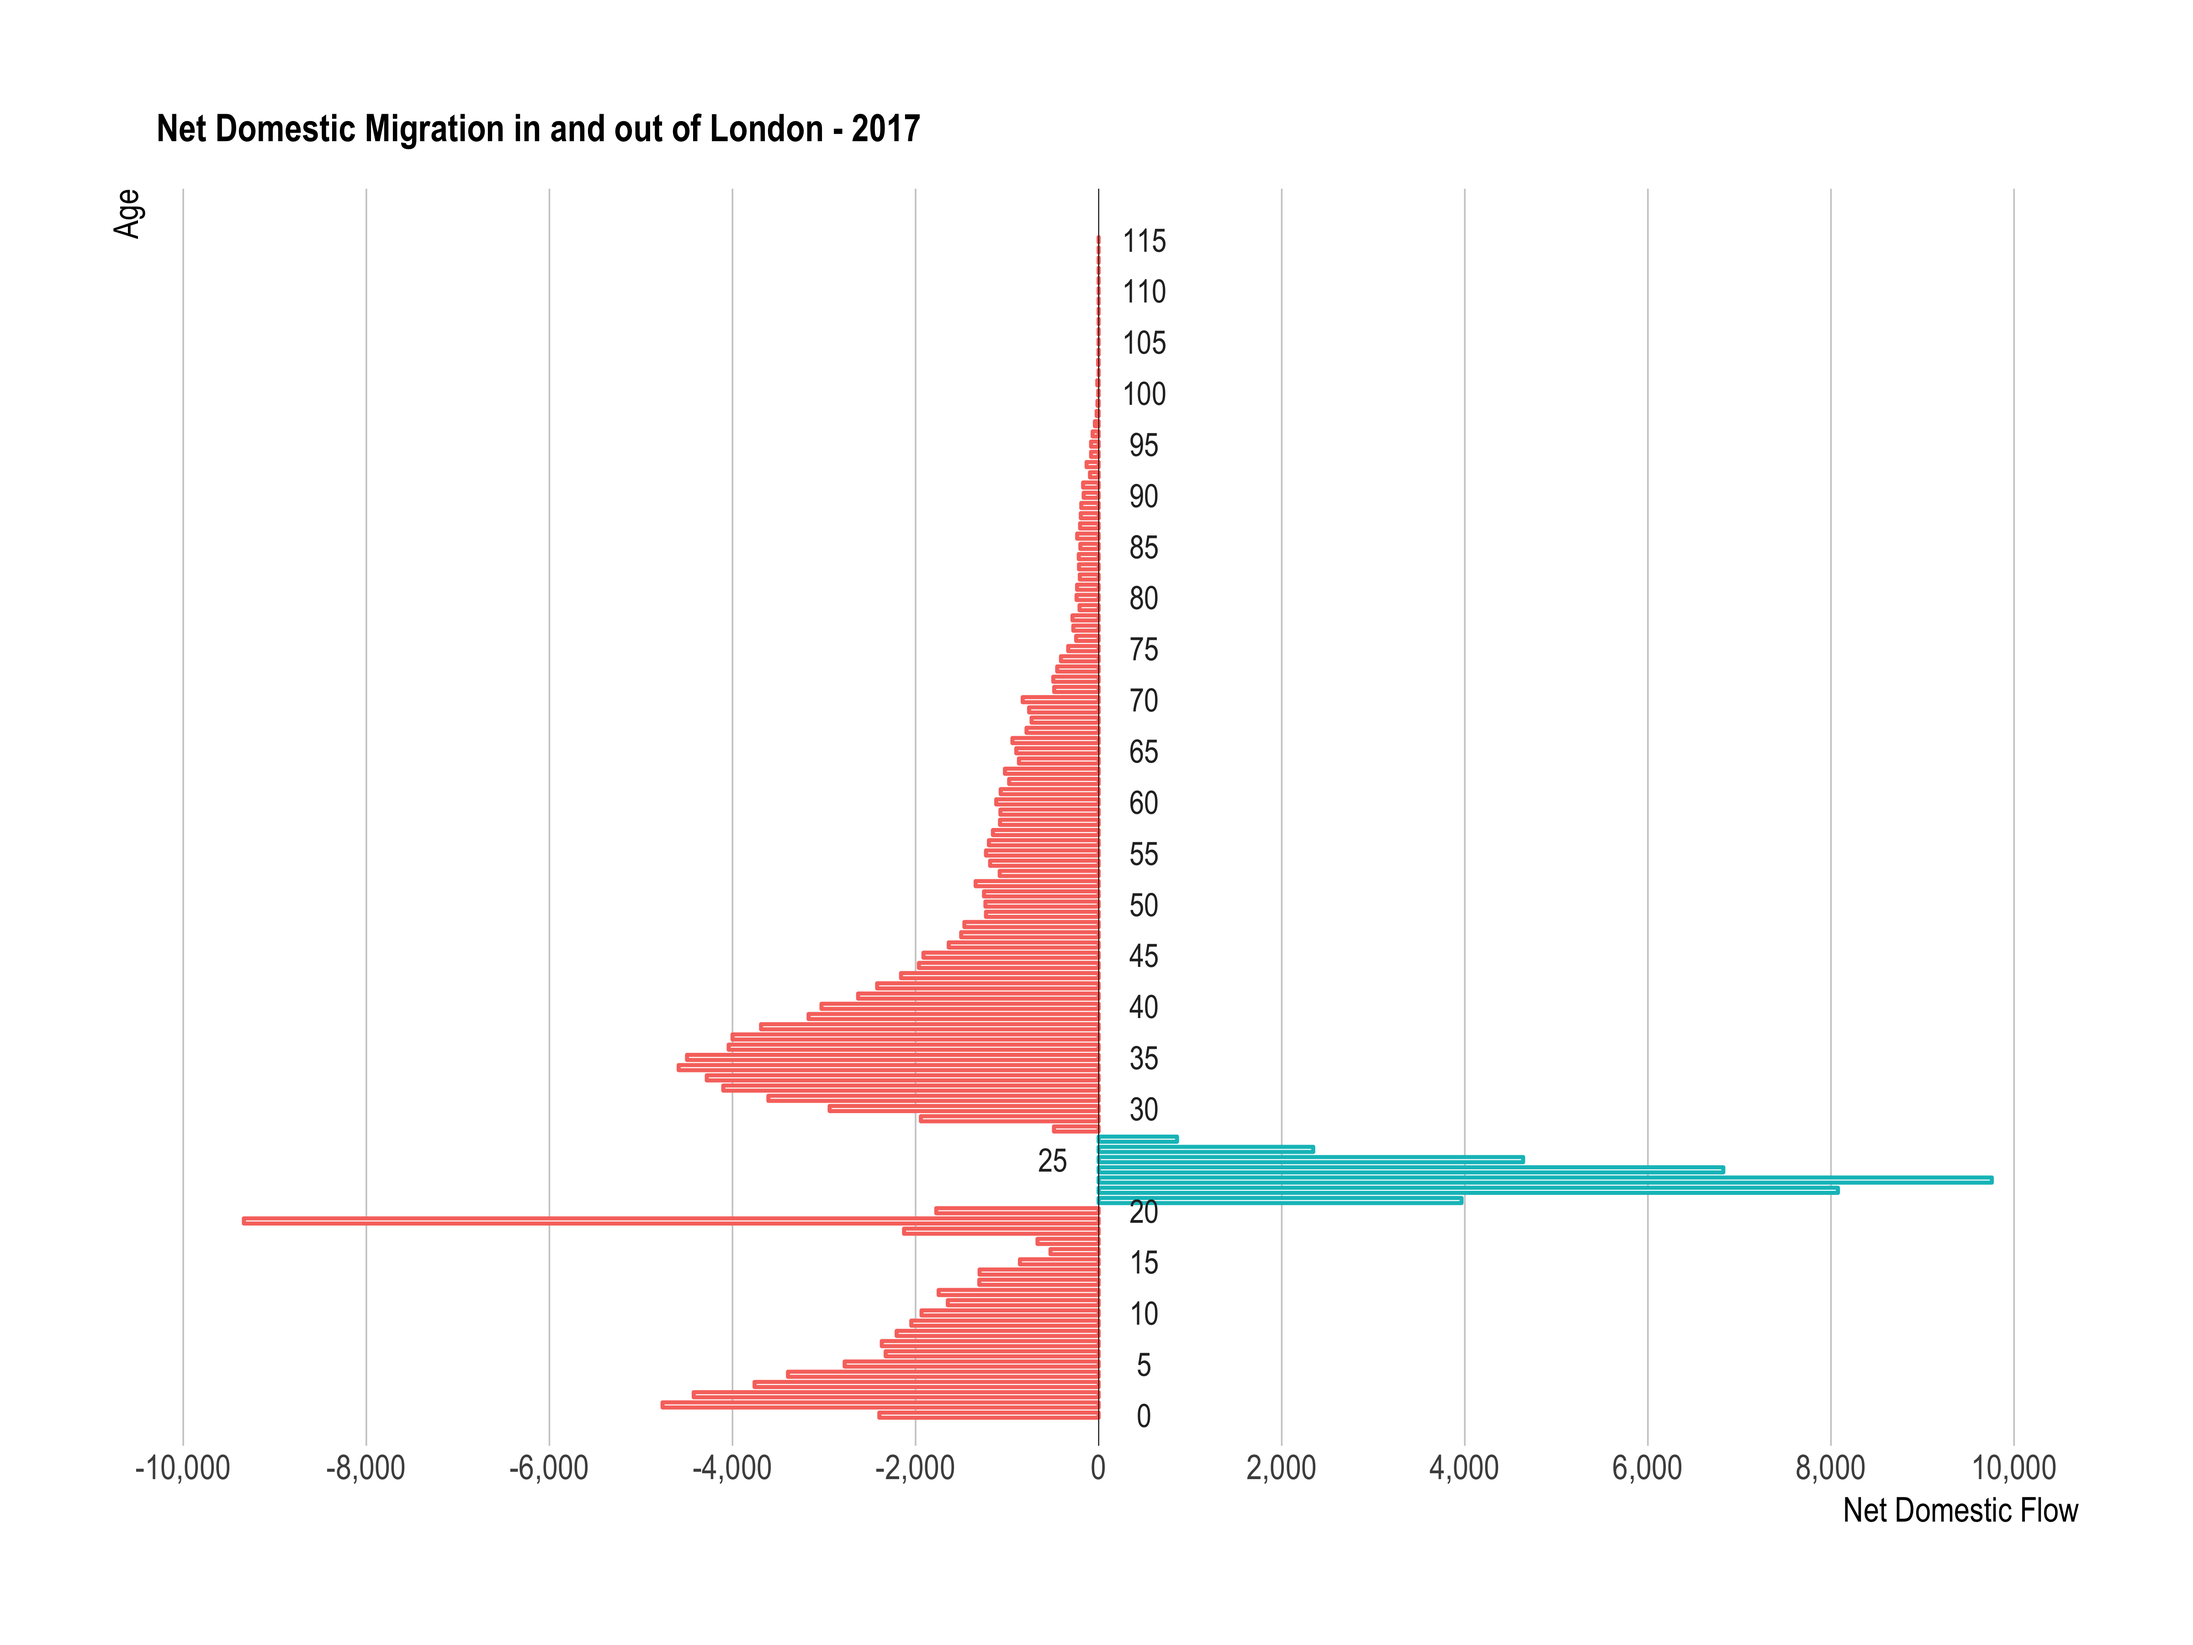
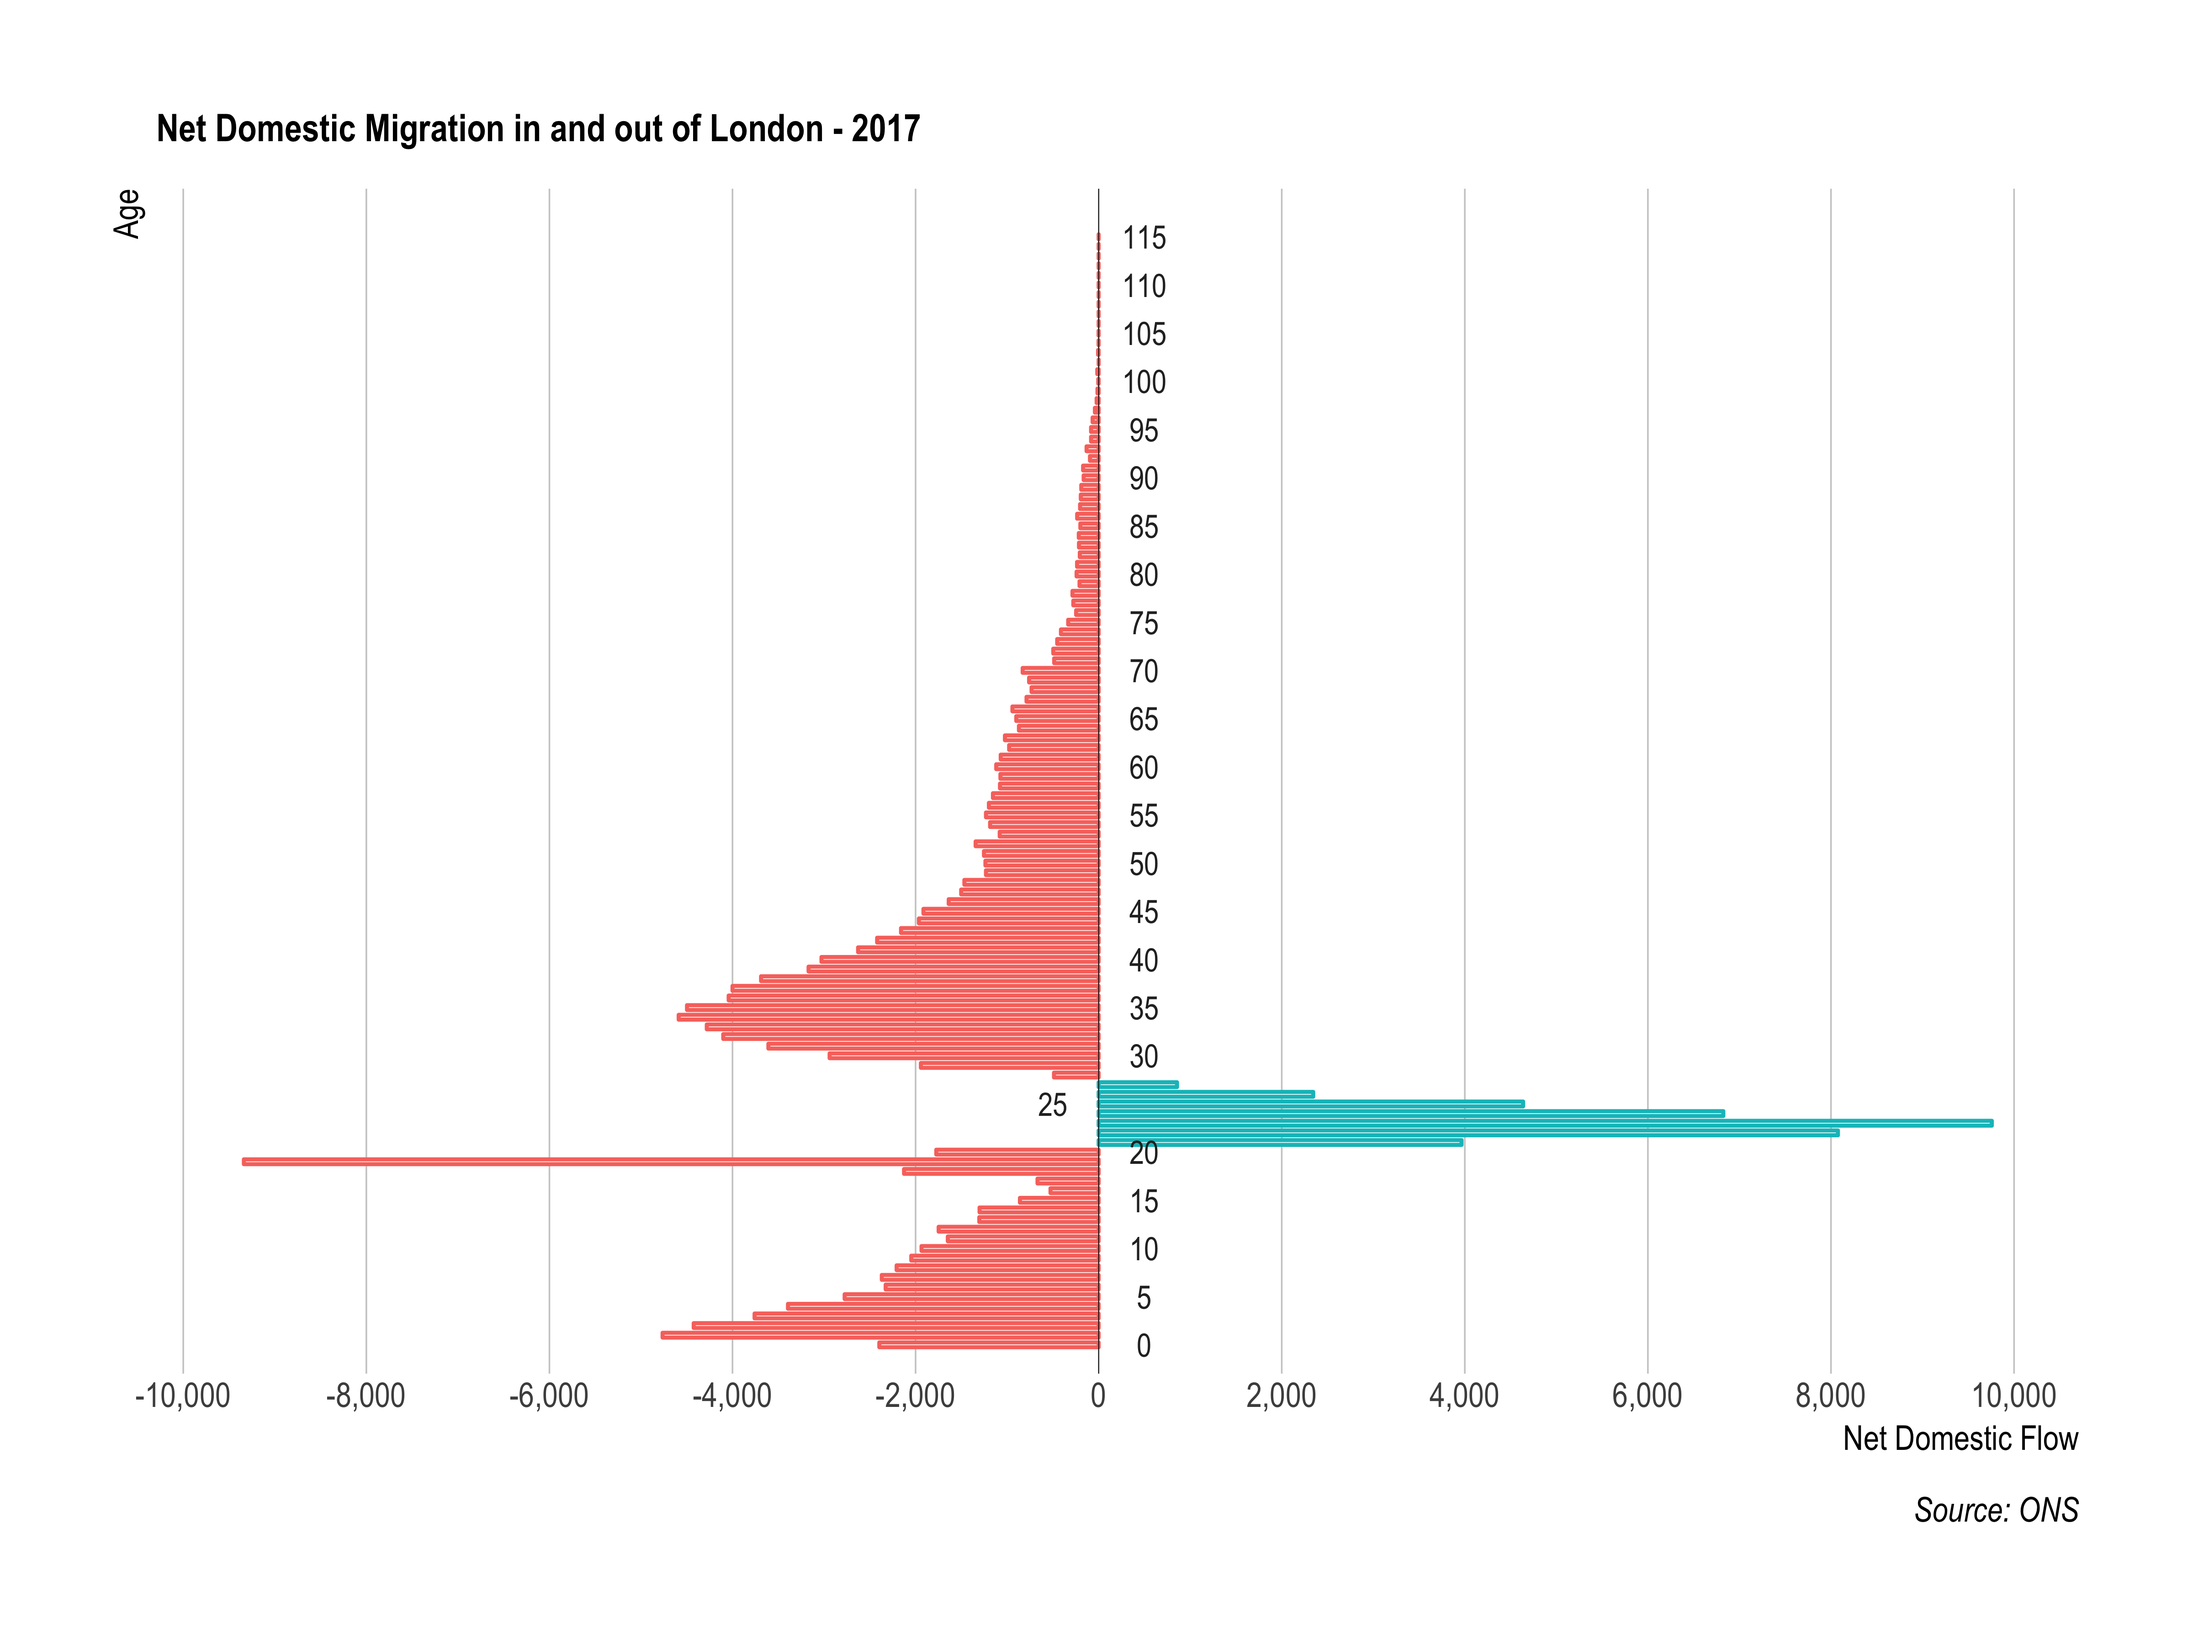
added source

diff --git a/content/post/2018-07-27-london-domestic-migration.html b/content/post/2018-07-27-london-domestic-migration.html
@@ -141,7 +141,8 @@ net_lim &lt;-<span class="st"> </span><span class="fl">1e3</span> <span class="o
                      <span class="dt">minor_breaks =</span> <span class="ot">NULL</span>,
                      <span class="dt">labels =</span> scales<span class="op">::</span>comma) <span class="op">+</span>
 <span class="st">  </span><span class="kw">labs</span>(<span class="dt">y =</span> <span class="st">&quot;Net Domestic Flow&quot;</span>,
-       <span class="dt">title=</span> <span class="st">&quot;Net Domestic Migration in and out of London - 2017&quot;</span>)</code></pre></div>
+       <span class="dt">title =</span> <span class="st">&quot;Net Domestic Migration in and out of London - 2017&quot;</span>,
+       <span class="dt">caption =</span> <span class="st">&quot;Source: ONS&quot;</span>)</code></pre></div>
 <p><img src="/post/2018-07-27-london-domestic-migration_files/figure-html/unnamed-chunk-5-1.png" width="100%" style="display: block; margin: auto;" /></p>
 <p>Striking, isn’t it?</p>
 <p>If you refer to the FT article mentionned earlier, the situation has not changed much between 2014 and 2017. Students leave London to study at around 19 years old, then come back seeking jobs at around 23 years old until they reach 30. At 28 years old and beyond, more people tend to leave London. We retrieve the cyclical migration pattern mentionned in the FT.</p>
@@ -169,7 +170,8 @@ net_lim &lt;-<span class="st"> </span><span class="fl">1e3</span> <span class="o
             <span class="dt">colour =</span> <span class="st">&quot;#2b2b2b&quot;</span>) <span class="op">+</span>
 <span class="st">  </span>hrbrthemes<span class="op">::</span><span class="kw">theme_ipsum</span>(<span class="dt">base_size =</span> <span class="dv">9</span>, <span class="dt">plot_title_size =</span> <span class="dv">10</span>) <span class="op">+</span>
 <span class="st">  </span><span class="kw">labs</span>(<span class="dt">y =</span> <span class="st">&quot;Net Domestic Flow&quot;</span>,
-       <span class="dt">title=</span> <span class="st">&quot;Net Domestic Migration in and out of London: from 2012 to 2017&quot;</span>)</code></pre></div>
+       <span class="dt">title =</span> <span class="st">&quot;Net Domestic Migration in and out of London: from 2012 to 2017&quot;</span>,
+       <span class="dt">caption =</span> <span class="st">&quot;Source: ONS&quot;</span>)</code></pre></div>
 <p><img src="/post/2018-07-27-london-domestic-migration_files/figure-html/unnamed-chunk-6-1.png" width="100%" style="display: block; margin: auto;" /></p>
 <p>From the plot we can see that:</p>
 <ul>
